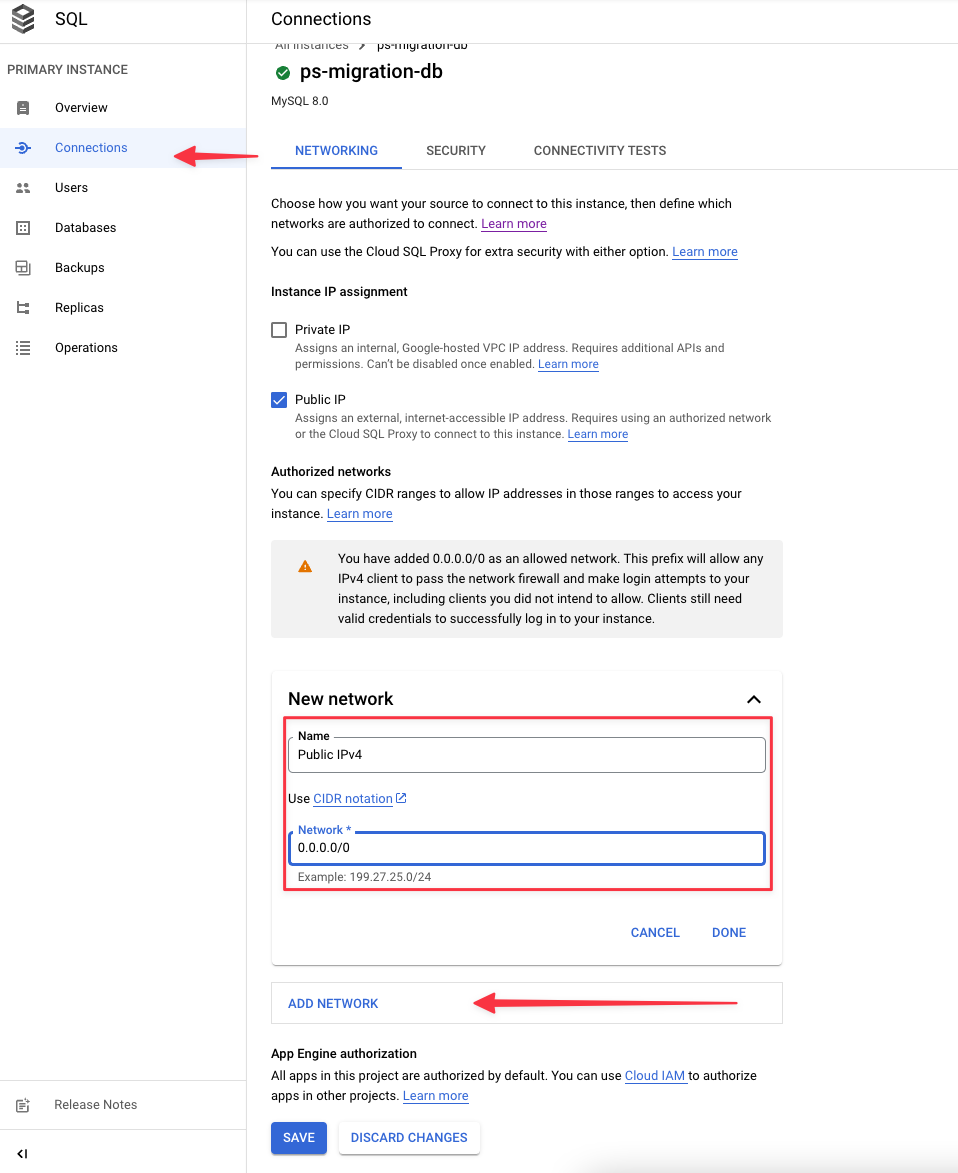
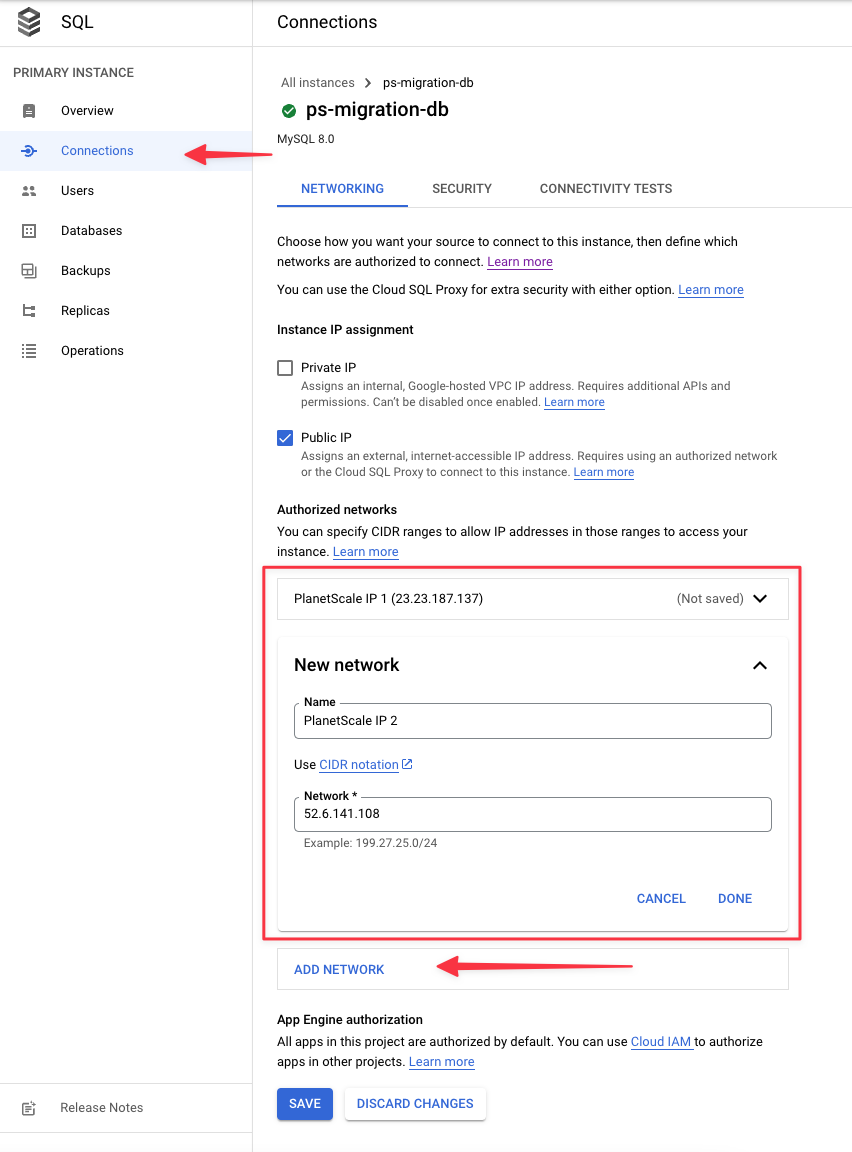
Add migration ip addrs, update gcp migration guide

diff --git a/content/docs/tutorials/gcp-cloudsql-migration-guide/index.md b/content/docs/tutorials/gcp-cloudsql-migration-guide/index.md
@@ -9,10 +9,6 @@ This document will demonstrate how to migrate a database from Google Cloud Platf
 
 ## Prerequisites
 
-Before you can perform a migration, you’ll need to make sure the following is configured:
-
-- [Allow all connections to your CloudSQL instance](#allow-all-connections-to-your-cloudsql-instance)
-
 You’ll also need to gather the following pieces of information from the GCP Console:
 
 - Public IP address
@@ -37,13 +33,23 @@ If you don’t know the admin password, you can create a new set of credentials 
 
 </InfoBlock>
 
+## Allow PlanetSccale to connect to your CloudSQL instance
+
+For PlanetScale to connect to your database, you’ll need to update the Authorized networks for your cluster. The specific IP addresses to permit depend on the region selected for your new database, which is in the **New database** section of the import tool in the **Region** field.
+
+![The New database section of the Import database tool.](/img/docs/import-tool-region-highlight.png)
+
+You will need to allow traffic for each IP address listed under that region on the [Import tool public IP addresses](/reference/import-tool-migration-addresses) page. To permit traffic from these IP addresses to your database in GCP, select **Connections** from the navigation on the left. Under **Authorized networks**, click “**Add network**”. This will display an inline form for you to add a network. The name of the field is arbitrary, but the **Network** field should contain the IP address that needs access to your database. Click “**Done**” to add the new entry. Perform this step for each IP address for the selected region, then click “**Save**” to apply the settings.
+
+![The form to add a new authorized network in the GCP console.](/img/docs/gcp-cloudsql-migration-guide/the-form-to-add-a-new-authorized-network-in-the-gcp-console.png)
+
 ## Importing your database
 
 In the PlanetScale dashboard, click “**New database**”, then “**Import database**”.
 
 ![The default view of all databases in the PlanetScale organization.](/img/docs/gcp-cloudsql-migration-guide/the-default-view-of-all-databases-in-the-planetscale-organization.png)
 
-At the time of this writing, the Import database feature is in beta. If this is your first time accessing this feature, you will be prompted to opt in to using the feature. Click “**Join beta”** to proceed.
+At the time of this writing, the Import database feature is in beta. If this is your first time accessing this feature, you will be prompted to opt into using the feature. Click “**Join beta”** to proceed.
 
 ![The Join beta view.](/img/docs/gcp-cloudsql-migration-guide/the-join-beta-view.png)
 
@@ -53,7 +59,7 @@ Complete the form using the information gathered in the previous section. Click 
 
 If the connection was successful, you’ll see the following message. Click “**Begin database import”** to start importing data.
 
-![The note displayed when the PlanetScale import tool can connect to the external database.](/img/docs/gcp-cloudsql-migration-guide/the-note-displayed-when-the-planetscale-import-tool-can-connect-to-the-external-database.png)
+![The note that is displayed when the PlanetScale import tool can connect to the external database.](/img/docs/gcp-cloudsql-migration-guide/the-note-displayed-when-the-planetscale-import-tool-can-connect-to-the-external-database.png)
 
 <InfoBlock type="note">
 
@@ -86,9 +92,3 @@ If you do not know your root password from when it was originally set, you can c
 In the form that appears, give your user a name & password. Make sure that **Allow any host** is selected. Click “**Add**”.
 
 ![The form to add a user in the GCP console.](/img/docs/gcp-cloudsql-migration-guide/the-form-to-add-a-user-in-the-gcp-console.png)
-
-## Allow all connections to your CloudSQL instance
-
-In order for PlanetScale to connect to your database, you’ll need to update the Authorized networks for your cluster. Select Connections from the navigation on the left. Under **Authorized networks**, click “**Add network**”. This will display an inline form for you to add a network. The name is arbitrary, but the **Network** field should be **0.0.0.0/0**. Click “**Done**” to add the new entry, then click “**Save**” to apply the settings.
-
-![The form to add a new authorized network in the GCP console.](/img/docs/gcp-cloudsql-migration-guide/the-form-to-add-a-new-authorized-network-in-the-gcp-console.png)
